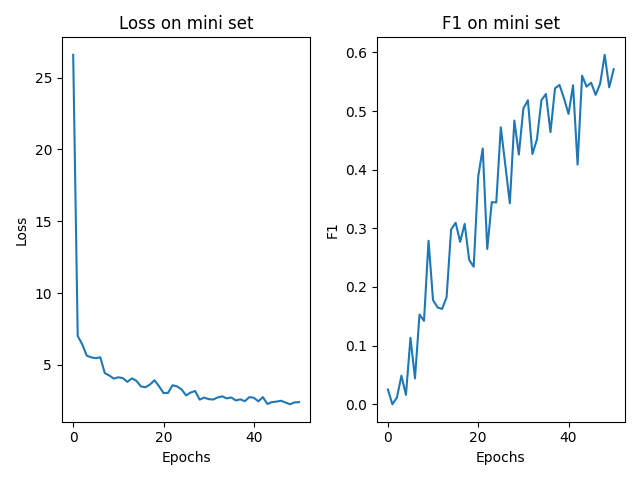
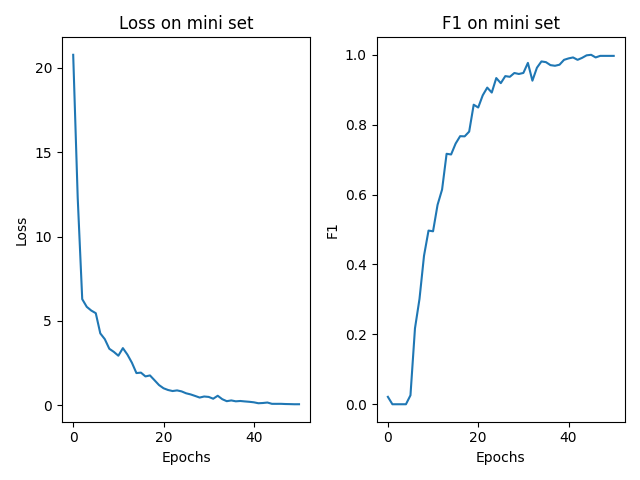
Hyperparams tuning

diff --git a/model/hyperparams.py b/model/hyperparams.py
@@ -8,9 +8,9 @@ batch_size = 10
 
 epochs = 50
 
-initial_lr = 0.015
+initial_lr = 0.05
 
-decay_rate = 0.05
+decay_rate = 0.05 
 
 momentum = 0.9
 
